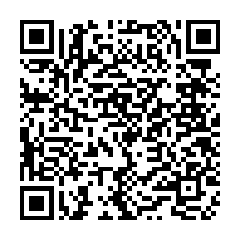
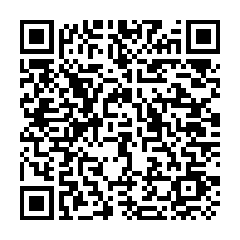
xmr addr change

Changed region(s): [[0.0583, 0.0583, 0.9333, 0.9333], [0.8167, 0.2625, 0.8458, 0.3208]]

diff --git a/index.html b/index.html
@@ -35,10 +35,10 @@
         <div class="popup">
             <img src="./images/monero_address.png" alt="Monero Address" title="Monero Address">
             <h4>XMR public address</h4>
-            <p style="word-wrap: break-word;">4AhUWju5fQUhGQPG3GSkGKcmRb4UghJWLbtHzbZyqzzNJS6vXNJNV69UKkmvcaac2sLoSdL3V3W2y3k6AJy398WKHgpo1fo</p>
+            <p style="word-wrap: break-word;">438Ws6R4fepHCFmHPQ7jT4fzWxcYgzF7SdjBpGgapLMa5yv67nxKw2vQ1849P5up2mLtrMD5fi1BafRqmeoD6F9U3cPAJvp</p>
             <h4><a onclick="openPopup('.popup'); openPopup('.popup-cover')" style="cursor: pointer;"><i class="fas fa-window-close"></i> Zapri</a></h4>
         </div>
-        <div class="popup-cover">
+        <div onclick="openPopup('.popup'); openPopup('.popup-cover')" class="popup-cover">
         </div>
 
         <!-- Containers -->

diff --git a/scripts.js b/scripts.js
@@ -1,8 +1,8 @@
 function openPopup(itemToShow) {
     var popup = document.querySelector(itemToShow);
     if (popup.style.display === "block") {
-      popup.style.display = "none";
+        popup.style.display = "none";
     } else {
-      popup.style.display = "block";
+        popup.style.display = "block";
     }
 }
